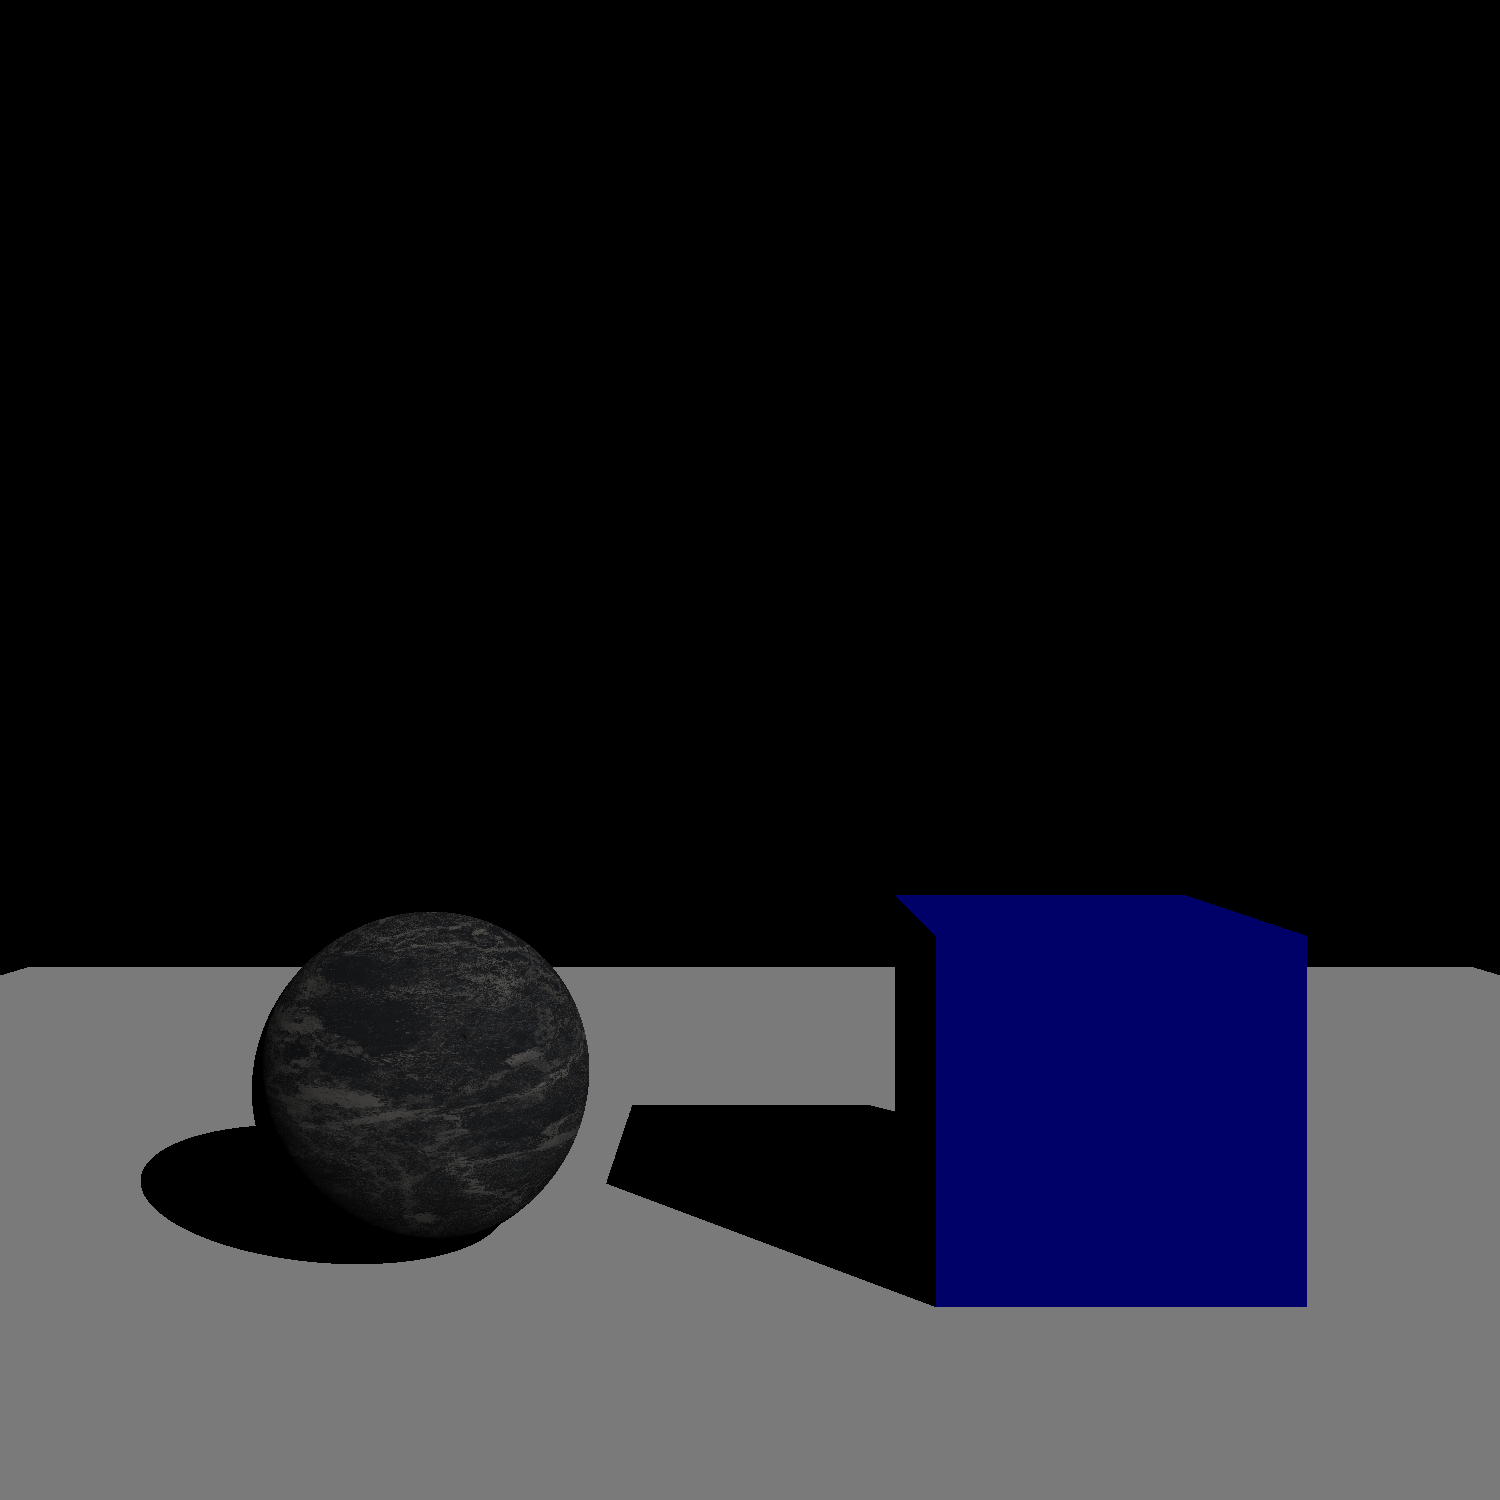
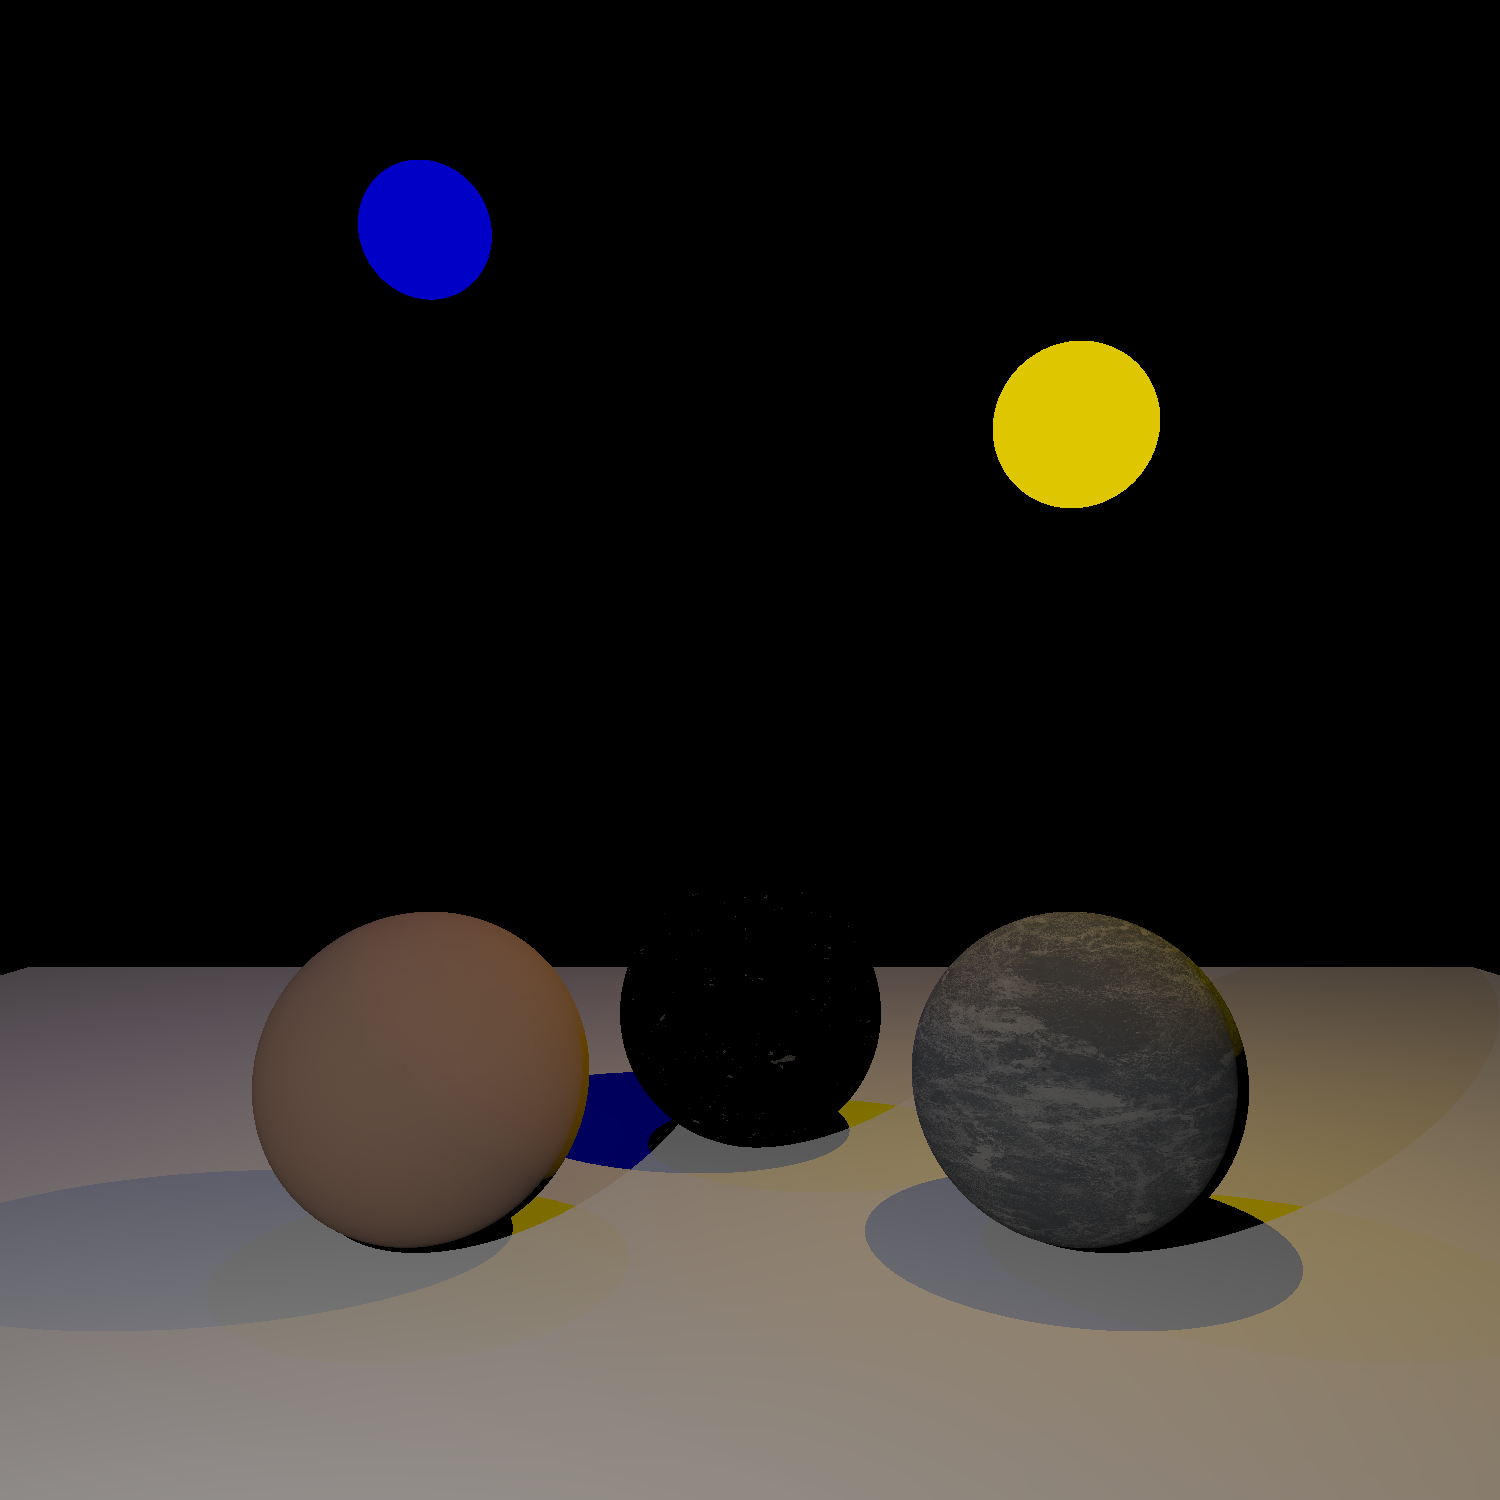
colour correction and camera exposure

Changed region(s): [[0.0, 0.5827, 1.0, 0.92], [0.644, 0.2147, 0.7973, 0.3373], [0.2147, 0.092, 0.3373, 0.2147]]

diff --git a/src/cgg/RayTracer.java b/src/cgg/RayTracer.java
@@ -47,13 +47,17 @@ public class RayTracer implements Sampler
 		// switch shading
 		if (__Hits.size()==0) return background;
 		Hit __Recent = __Hits.peek().front();
-		return switch (__Recent.material())
+		Color __Result = switch (__Recent.material())
 		{
 		case PhysicalMaterial c -> _shadePhysical(__Recent);
 		case SurfaceMaterial c -> _shadePhong(__Recent);
 		case SurfaceColour c -> _shadeLaemp(__Recent);
 		default -> error;
 		};
+
+		// colour correction
+		__Result = subtract(color(1.),exp(multiply(__Result,-scene.camera().exposure())));
+		return pow(__Result,1./2.2);
 	}
 
 	private Color _shade(Hit hit)
@@ -74,6 +78,11 @@ public class RayTracer implements Sampler
 		double __Metallic = p_Material.r();
 		double __Roughness = p_Material.g();
 		double __Occlusion = p_Material.b();
+		/*
+		p_Colour = color(.75,0,0);
+		__Metallic = .0;
+		__Roughness = .2;
+		*/
 
 		// precalculations
 		Vec3 __CameraDir = normalize(subtract(scene.camera().position(),hit.position()));
@@ -85,10 +94,13 @@ public class RayTracer implements Sampler
 		Vec3 __Result = vec3(0,0,0);
 		for (PhongIllumination p_Light : scene.phong_lights())
 		{
+			// shadow checking
 			Vec3 __LightDir = p_Light.direction(hit.position());
-			Vec3 __Halfway = normalize(add(__CameraDir,__LightDir));
+			if (_shadowCast(hit,__LightDir,p_Light.distance(hit.position()))) continue;
+			// TODO: test this in a complex environment
 
 			// distribution component
+			Vec3 __Halfway = normalize(add(__CameraDir,__LightDir));
 			double aSq = pow(__Roughness,4.);
 			double __TBR = aSq/(PI*pow(pow(max(dot(hit.normal(),__Halfway),.0),2.)*(aSq-1.)+1.,2.));
 
@@ -109,10 +121,10 @@ public class RayTracer implements Sampler
 			Vec3 __CT = divide(multiply(multiply(__TBR,__Fresnel),__Smith),4.*__dtLightIn*__dtLightOut+.0001);
 			Vec3 lR = divide(multiply(multiply(subtract(vec3(1.),__Fresnel),(1.-__Metallic)),vec3(p_Colour)),
 							 add(__CT,PI));
-			lR = multiply(lR,multiply(vec3(p_Light.intensity(hit.position())),__dtLightIn));
+			lR = multiply(lR,multiply(vec3(p_Light.physicalInfluence(hit.position())),__dtLightIn));
 			__Result = add(__Result,lR);
 		}
-		// TODO: pointlight attenuation upgrade
+		// FIXME: no specular highlights on geometry, component specific debug necessary
 
 		return clamp(color(__Result));
 	}
@@ -146,17 +158,7 @@ public class RayTracer implements Sampler
 
 			// shadow calculation
 			Vec3 __LightDirection = p_Light.direction(hit.position());
-			Ray __ShadowRay = new Ray(hit.position(),__LightDirection,.0001,p_Light.distance(hit.position()));
-			boolean __InShadow = false;
-			for (Geometry g : scene.objects())
-			{
-				if (g.intersect(__ShadowRay).size()>0)
-				{
-					__InShadow = true;
-					break;
-				}
-			}
-			if (__InShadow) continue;
+			if (_shadowCast(hit,__LightDirection,p_Light.distance(hit.position()))) continue;
 
 			// diffuse component
 			double __Attitude = dot(hit.normal(),__LightDirection);
@@ -174,6 +176,16 @@ public class RayTracer implements Sampler
 			}
 		}
 		return clamp(__Result);
+	}
+
+	private boolean _shadowCast(Hit hit,Vec3 ldir,double ldist)
+	{
+		Ray __ShadowRay = new Ray(hit.position(),ldir,.0001,ldist);
+		for (Geometry g : scene.objects())
+		{
+			if (g.intersect(__ShadowRay).size()>0) return true;
+		}
+		return false;
 	}
 
 	private Color _shadeLaemp(Hit hit)

diff --git a/src/cgg/a04/Scene.java b/src/cgg/a04/Scene.java
@@ -24,19 +24,17 @@ public class Scene implements Stage
 		phong_lights = new ArrayList<>();
 
 		// projection
-		camera = new Camera(vec3(0,0,0),60.,width,height);
+		camera = new Camera(vec3(0,0,0),60.,width,height,1.);
 
 		// geometry
 		_flooring();
 		_testing();
 
 		// lighting
-		phong_lights.add(new DirectionalLight(vec3(1,-1,1),color(.7,.7,.7),1.));
-		/*
+		//phong_lights.add(new DirectionalLight(vec3(1,-1,1),color(.7,.7,.7),1.));
 		_craeveTheVorbiddenLaemp(vec3(-1,0,-1),color(1,1,1),.7);
 		_craeveTheVorbiddenLaemp(vec3(1,-1,-4),color(1,.5,0),.7);
 		_craeveTheVorbiddenLaemp(vec3(-1.25,-2,-5),color(0,0,.5),.4);
-		*/
 	}
 
 	private void _testing()
@@ -44,8 +42,12 @@ public class Scene implements Stage
 		Vec3 __Position = vec3(0,1,-4);
 		//objects.add(new Sphere(add(__Position,vec3(-1,0,0)),.5,new SurfaceMaterial("./res/checker.png")));
 		objects.add(new Sphere(add(__Position,vec3(-1,0,0)),.5,
+							   new PhysicalMaterial("./res/plastic/orange.png","./res/plastic/material.png")));
+		objects.add(new Sphere(add(__Position,vec3(0,0,-1)),.5,
+							   new PhysicalMaterial("./res/gold/colour.png","./res/gold/material.png")));
+		objects.add(new Sphere(add(__Position,vec3(1,0,0)),.5,
 							   new PhysicalMaterial("./res/marble/colour.png","./res/marble/material.png")));
-		objects.add(new Box(add(__Position,vec3(1,0,0)),1,1,1,new SurfaceMaterial(color(0,0,.5))));
+		//objects.add(new Box(add(__Position,vec3(1,0,0)),1,1,1,new SurfaceMaterial(color(0,0,.5))));
 	}
 
 	private void _flooring()
@@ -57,7 +59,7 @@ public class Scene implements Stage
 	private void _craeveTheVorbiddenLaemp(Vec3 position,Color colour,double intensity)
 	{
 		emitter.add(new Sphere(position,.25,new SurfaceColour(colour)));
-		phong_lights.add(new PointLight(position,colour,intensity));
+		phong_lights.add(new PointLight(position,colour,intensity,1.,.7,1.8));
 	}
 
 	public Camera camera() { return camera; }

diff --git a/src/cgg/lght/PointLight.java b/src/cgg/lght/PointLight.java
@@ -9,11 +9,26 @@ public class PointLight implements PhongIllumination
 {
 	private Vec3 position;
 	private Color colour;
+	private double constant;
+	private double linear;
+	private double quadratic;
 
 	public PointLight(Vec3 position,Color colour,double intensity)
 	{
 		this.position = position;
 		this.colour = multiply(colour,intensity);
+		this.constant = 1.;
+		this.linear = .045;
+		this.quadratic = .0075;
+	}
+
+	public PointLight(Vec3 position,Color colour,double intensity,double constant,double linear,double quadratic)
+	{
+		this.position = position;
+		this.colour = multiply(colour,intensity);
+		this.constant = constant;
+		this.linear = linear;
+		this.quadratic = quadratic;
 	}
 
 	public Vec3 direction(Vec3 position)
@@ -28,6 +43,13 @@ public class PointLight implements PhongIllumination
 
 	public Color intensity(Vec3 position)
 	{
-		return divide(colour,pow(length(subtract(this.position,position)),2));
+		return divide(colour,pow(distance(position),2));
+	}
+
+	public Color physicalInfluence(Vec3 position)
+	{
+		double d = distance(position);
+		double __Attenuation = 1/(constant+linear*d+quadratic*pow(d,2.));
+		return multiply(colour,__Attenuation);
 	}
 }

diff --git a/src/cgg/a02/Camera.java b/src/cgg/a02/Camera.java
@@ -13,10 +13,11 @@ public class Camera
 	private double hwidth;
 	private double height;
 	private double hheight;
+	private double exposure;
 	private final double near = 0;
 	private final double far = 1000;
 
-	public Camera(Vec3 position,double fov,double width,double height)
+	public Camera(Vec3 position,double fov,double width,double height,double exposure)
 	{
 		this.position = position;
 		this.deg_fov = fov;
@@ -25,6 +26,7 @@ public class Camera
 		this.hwidth = width*.5;
 		this.height = height;
 		this.hheight = height*.5;
+		this.exposure = exposure;
 	}
 
 	public Ray generateRay(Vec2 coord)
@@ -34,4 +36,5 @@ public class Camera
 	}
 
 	public Vec3 position() { return position; }
+	public double exposure() { return exposure; }
 }

diff --git a/src/tools/Functions.java b/src/tools/Functions.java
@@ -1198,6 +1198,16 @@ public class Functions {
 		return add(multiply(c0,1.-t),multiply(c1,t));
 	}
 
+	public static Color pow(Color a,double b)
+	{
+		return color(Math.pow(a.r(),b),Math.pow(a.g(),b),Math.pow(a.b(),b));
+	}
+
+	public static Color exp(Color a)
+	{
+		return color(Math.exp(a.r()),Math.exp(a.g()),Math.exp(a.b()));
+	}
+
     /**
      * Helper method for HSV to RGB conversion.
      * Calculates the RGB color for a given hue value.

diff --git a/src/cgg/a02/Scene.java b/src/cgg/a02/Scene.java
@@ -15,7 +15,7 @@ public class Scene
 	public Scene(int width,int height)
 	{
 		// camera setup
-		this.camera = new Camera(vec3(0,0,0),90,width,height);
+		this.camera = new Camera(vec3(0,0,0),90,width,height,1.);
 
 		// bland sphere setup
 		blands = new ArrayList<Sphere>();

diff --git a/src/cgg/a03/Scene.java b/src/cgg/a03/Scene.java
@@ -23,7 +23,7 @@ public class Scene implements Stage
 		phong_lights = new ArrayList<>();
 
 		// projection
-		camera = new Camera(vec3(0,0,0),60.,width,height);
+		camera = new Camera(vec3(0,0,0),60.,width,height,1.);
 
 		// geometry
 		_flooring();

diff --git a/src/cgg/lght/PhongIllumination.java b/src/cgg/lght/PhongIllumination.java
@@ -8,4 +8,5 @@ public interface PhongIllumination
 	Vec3 direction(Vec3 position);
 	double distance(Vec3 position);
 	Color intensity(Vec3 position);
+	Color physicalInfluence(Vec3 position);
 }

diff --git a/src/cgg/lght/DirectionalLight.java b/src/cgg/lght/DirectionalLight.java
@@ -29,4 +29,9 @@ public class DirectionalLight implements PhongIllumination
 	{
 		return colour;
 	}
+
+	public Color physicalInfluence(Vec3 position)
+	{
+		return colour;
+	}
 }
